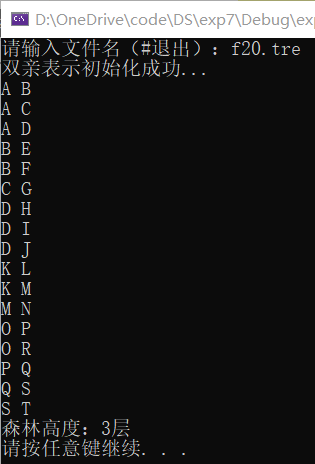
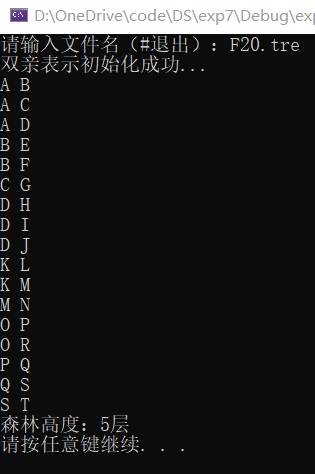
高度

Changed region(s): [[0.0, 0.0, 1.0, 1.0]]

diff --git a/tree_forest.h b/tree_forest.h
@@ -468,13 +468,10 @@ int forest_high(csNode*& T)
 	int h2 = 0;
 	if (T != NULL)
 	{
-		h1 = forest_high(T->firstChild);
-		if(T->firstChild != NULL)
-			h2 = forest_high(T->firstChild->nextSibling);
-		if (h1 > h2)
-			return h1 + 1;
-		else
-			return h2 + 1;
+		h1 = forest_high(T->firstChild) + 1;
+		h2 = forest_high(T->nextSibling);
+		if (h1 < h2)
+			h1 = h2;
 	}
 	return h1;
 }
